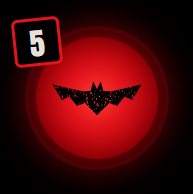
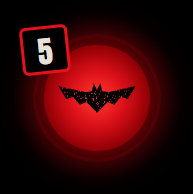
docs: add Bat-Clawd close-ups to the README
npm run shots cuts the mascot out of the header at 6x in each mood.

Changed region(s): [[0.0311, 0.0619, 0.9016, 0.8969]]

diff --git a/README.md b/README.md
@@ -20,7 +20,7 @@ Batcave rests in a corner of your screen as a small **Bat-Signal**. When somethi
 - shows which sessions are active and what each one is doing (tasks, subagents, background commands);
 - tells you when tasks finish;
 - gathers everything that **needs you** in one place (permission prompts, Claude waiting for input, errors);
-- has a mascot: **Bat-Clawd**, Claude Code's Clawd in a cowl and cape. He sleeps wrapped in his cape when all is quiet, takes off with it streaming behind him when a session is working, and throws it open, red-eyed, when something needs you.
+- has a mascot: **Bat-Clawd**, Claude Code's Clawd in a cowl and cape. He sleeps wrapped in his cape when all is quiet, takes off with it streaming behind him when a session is working, and throws it open, showing its red lining, when something needs you.
 
 The look is inspired by the reds and blacks of *The Batman* (2022): every session is a case file, every alert a red ink stamp, with rain falling behind it all.
 
@@ -28,11 +28,15 @@ The look is inspired by the reds and blacks of *The Batman* (2022): every sessio
 
 | Cases | Task drawer | All quiet |
 |---|---|---|
-| <img src="docs/screenshots/cases.png" width="240" alt="Case cards with case numbers, status, task progress and Claude's last words"> | <img src="docs/screenshots/task-drawer.png" width="240" alt="A drawer with a task's brief and timeline"> | <img src="docs/screenshots/all-quiet.png" width="240" alt="Nothing pending: Bat-Clawd sleeps wrapped in his cape"> |
+| <img src="docs/screenshots/cases.png" width="240" alt="Case cards with case numbers, status, task progress and Claude's last words"> | <img src="docs/screenshots/task-drawer.png" width="240" alt="A drawer with a task's brief and timeline"> | <img src="docs/screenshots/all-quiet.png" width="240" alt="Nothing pending: two quiet cases, Bat-Clawd asleep in the header"> |
 
 | Settings | The Bat-Signal at rest |
 |---|---|
 | <img src="docs/screenshots/settings.png" width="240" alt="Settings: animations, rain, always on top, opacity"> | <img src="docs/screenshots/signal.png" width="96" alt="The Bat-Signal disc, lit, with five cases needing you"> |
+
+| Bat-Clawd asleep | On patrol | Needs you |
+|---|---|---|
+| <img src="docs/screenshots/clawd-sleeping.png" width="190" alt="Bat-Clawd asleep, sitting wrapped in his cape"> | <img src="docs/screenshots/clawd-flying.png" width="190" alt="Bat-Clawd flying, his cape streaming behind him"> | <img src="docs/screenshots/clawd-alarmed.png" width="190" alt="Bat-Clawd alarmed, his black cape flung open to show its red lining"> |
 
 Screenshots use made-up data (`npm run shots`), never real sessions.
 
